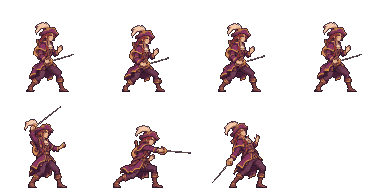
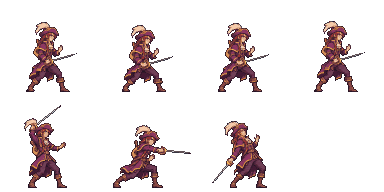
Accept the PC's rapier touch-up for Rico; Isabel's hat is the officer's cap everywhere
Claude-Session: https://claude.ai/code/session_01GaNnj798T1h6Syc1iU5s6y

diff --git a/tools/art/handoff.py b/tools/art/handoff.py
@@ -227,7 +227,7 @@ CHARS = {
         concepts={'concept.png': 'captain_tactician/concept_07.png'},
         weapon_desc=("a slim black officer's cane / baton with a gold knob (no orb, no crystal), in the near hand where the guide holds "
                      'the staff, at the same angle, but only about HALF the guide staff\'s length (~1.2 heads, ~130 px)'),
-        keep=['black tricorne hat with gold trim', 'long straight dark-indigo hair', 'charcoal long military coat',
+        keep=["black peaked officer's cap with a gold band and a gold fleur-de-lis badge (as the portrait; NOT a tricorne - owner decision 2026-11-26)", 'long straight dark-indigo hair', 'charcoal long military coat',
               'gold epaulettes and gold buttons', 'leather belt', 'dark trousers, black boots', 'calm, sharp expression'],
         colours=[('skin', '#f5d6b8'), ('hair', 'dark indigo #3a3f6b'), ('coat', 'charcoal #3a3a4a'),
                  ('trim, epaulettes, buttons', 'gold #f2c94c (muted)')],
@@ -239,7 +239,7 @@ CHARS = {
                   windup='cane raised, free hand lifted (about to give an order)',
                   strike='lunge; free arm extended straight forward, pointing with the index finger at the enemy; cane held up behind',
                   hit='torso thrown back, weight on the rear leg, wincing, hat still on'),
-        ko=dict(keep='금테 검은 삼각모, 곧은 짙은 남보라 긴 머리, 숯색 긴 군복 코트, 금 견장·금단추, 검은 장화, 침착한 표정.',
+        ko=dict(keep='금테·금 백합 휘장의 검은 장교모(초상화대로, 삼각모 아님 — 주인 결정 11-26), 곧은 짙은 남보라 긴 머리, 숯색 긴 군복 코트, 금 견장·금단추, 검은 장화, 침착한 표정.',
                 fix='초안은 약 6등신 → 4등신. 지팡이 → 가이드 지팡이 절반 길이의 장교 지휘봉(금 손잡이), 같은 손·같은 각도. 타격 = 앞으로 뻗은 팔로 손가락 지휘.'),
     ),
     'captain_lancer': dict(

diff --git a/art/requests/phase3/captain_tactician/README.md b/art/requests/phase3/captain_tactician/README.md
@@ -1,7 +1,7 @@
 # 이사벨 — 퇴역 참모 (전술가) — GPT handoff (`captain_tactician`)
 
 > `python3 tools/art/handoff.py`로 자동 생성된다. 고칠 때는 `tools/art/handoff.py`의 `CHARS`를 고치고 다시 실행.
-> 공통 규칙: `art/requests/gpt_handoff_notes.md`. 전체 순서·붙여 넣을 메시지: `art/requests/phase3_gpt.md`.
+> 공통 규칙: `art/requests/gpt_handoff_notes.md`. 일하는 법: `art/requests/GPT_STANDING.md` + `dot_queue.md`「지금 차례」.
 > 모든 자료는 브랜치 `claude/dot-fantasy-management-game-saupju`에서 읽고, 결과 PNG 는 `art-inbox` 브랜치에만 올린다.
 
 ## Prompt for GPT (English)
@@ -9,7 +9,7 @@
 ```
 TASK: draw the battle-sprite strip of Isabel (이사벨, tactician), a mercenary captain. Save it as art/inbox/sheet_captain_tactician.png on the art-inbox branch (a new file there; do not rename). In a chat without repository access, return the PNG in the chat instead.
 
-CHARACTER: a slim black officer's cane / baton with a gold knob (no orb, no crystal), in the near hand where the guide holds the staff, at the same angle, but only about HALF the guide staff's length (~1.2 heads, ~130 px); black tricorne hat with gold trim; long straight dark-indigo hair; charcoal long military coat; gold epaulettes and gold buttons; leather belt; dark trousers, black boots; calm, sharp expression.
+CHARACTER: a slim black officer's cane / baton with a gold knob (no orb, no crystal), in the near hand where the guide holds the staff, at the same angle, but only about HALF the guide staff's length (~1.2 heads, ~130 px); black peaked officer's cap with a gold band and a gold fleur-de-lis badge (as the portrait; NOT a tricorne - owner decision 2026-11-26); long straight dark-indigo hair; charcoal long military coat; gold epaulettes and gold buttons; leather belt; dark trousers, black boots; calm, sharp expression.
 
 COLOURS (keep close, muted): skin #f5d6b8; hair dark indigo #3a3f6b; coat charcoal #3a3a4a; trim, epaulettes, buttons gold #f2c94c (muted).
 
@@ -38,7 +38,7 @@ STYLE (same for every character):
   - 4 heads tall (top of the hair to the chin = 1 head), exactly the proportions and limb lengths of the guide; NOT chibi, NOT realistic
   - front three-quarter view, facing RIGHT; light from the upper left
   - muted, desaturated, hue-shifted palette (shadows toward purple/blue, highlights toward warm yellow), flat cel shading with 2-3 tones
-  - dark, desaturated, NON-black outline used selectively (no thick uniform black lineart), soft rim light on one side
+  - dark, desaturated, NON-black outline around the whole silhouette (no thick uniform black lineart); crisp pixel art: about 40 colours, hard pixel edges, no anti-aliased blending into the background
   - readable at 1x game size (the idle figure becomes ~64 px tall on a dark battlefield): big clear shapes, strong silhouette, few tiny details
 
 DELIVERABLE:
@@ -47,7 +47,9 @@ DELIVERABLE:
   - the lowest pixel of every figure (its soles) on the line y = 870 (85% of the height); head = 110 px for every character. Standing height would be 440 px (4 heads), but the guide idle pose is crouched, so the measured idle top-of-head to sole is about 401 px. Headgear (hats, helmets, plumes) and weapons are extra and not counted
   - at least 32 px of empty magenta between any two figures and between a figure and the image border (a weapon may reach over a neighbour's column as in the guide, but never closer than that)
   - background: perfectly flat solid magenta #FF00FF everywhere (preferred; a transparent PNG is also accepted) - no gradient, floor, cast shadow or scenery
-  - NO figure pixel may be magenta-like: every colour of the figure must stay clearly away from the background key #FF00FF, RGB distance sqrt((255-R)^2 + G^2 + (255-B)^2) >= 150 (no hot pink, magenta or bright violet; purples stay dark blue-purple such as #5a4a7a). If you reduce the palette, reduce the FIGURE colours only and never merge a figure colour into the background colour
+  - NO figure pixel may be magenta-like: every colour of the figure must stay clearly away from the background key #FF00FF, RGB distance sqrt((255-R)^2 + G^2 + (255-B)^2) >= 170, hard minimum 150 (no hot pink, magenta or bright violet; purples stay dark blue-purple such as #5a4a7a). If you reduce the palette, reduce the FIGURE colours only and never merge a figure colour into the background colour
+  - in every pose keep the weapon / key prop outside the body silhouette, over the background, with a 1 px dark outline
+  - the body keeps the guide size in every pose - when a wide pose does not fit, change the weapon angle or the stance, never shrink the figure
   - NO text, labels, numbers, frames, grid lines, watermark; NO effects outside the body (no slash trails, sparks, dust, glow, motion lines, projectiles)
 
 SELF-CHECK before saving (redraw if any fails):
@@ -57,7 +59,8 @@ SELF-CHECK before saving (redraw if any fails):
   [ ] same face, hair, outfit, colours and weapon in all four poses; exactly the weapons in CHARACTER (nothing extra)
   [ ] every FIX applied
   [ ] no text, floor, shadow, effects or projectiles; >= 32 px of magenta between figures and from the border
-  [ ] no figure pixel is #FF00FF or magenta-like (every figure colour at RGB distance >= 150 from #FF00FF)
+  [ ] no figure pixel is #FF00FF or magenta-like (every figure colour at RGB distance >= 170 from #FF00FF (hard minimum 150))
+  [ ] in every pose keep the weapon / key prop outside the body silhouette, over the background, with a 1 px dark outline
   [ ] reads clearly when shrunk to 64 px tall on a dark background
 ```
 
@@ -67,7 +70,7 @@ SELF-CHECK before saving (redraw if any fails):
 - 결과 파일: `art/inbox/sheet_captain_tactician.png` (id `sheet/captain/tactician`)
 - 무기: posekit `staff` 마네킹 → a slim black officer's cane / baton with a gold knob (no orb, no crystal), in the near hand where the guide holds the staff, at the same angle, but only about HALF the guide staff's length (~1.2 heads, ~130 px)
 - 자세(가이드 프레임): ① 대기 `cast_0` ② 공격 준비 `cast_1` ③ 공격 타격 `key_strike` ④ 피격 `key_hit` (`key_*` = handoff.py 의 KEY_POSES: 준비는 체중 뒤로, 타격은 내딛는 런지, 피격은 상체가 뒤로 젖혀짐)
-- 초안에서 가져올 것: 금테 검은 삼각모, 곧은 짙은 남보라 긴 머리, 숯색 긴 군복 코트, 금 견장·금단추, 검은 장화, 침착한 표정.
+- 초안에서 가져올 것: 금테·금 백합 휘장의 검은 장교모(초상화대로, 삼각모 아님 — 주인 결정 11-26), 곧은 짙은 남보라 긴 머리, 숯색 긴 군복 코트, 금 견장·금단추, 검은 장화, 침착한 표정.
 - 고칠 것: 초안은 약 6등신 → 4등신. 지팡이 → 가이드 지팡이 절반 길이의 장교 지휘봉(금 손잡이), 같은 손·같은 각도. 타격 = 앞으로 뻗은 팔로 손가락 지휘.
 - 초안에서 가져오지 말 것: 비율(등신), 칠하는 방식, 외곽선 굵기, 채도, 조명, 디테일 양 — 모두 4등신·앵커 화풍으로 통일.
 - 가이드 띠: 머리 하나 = 110 px (모든 캐릭터 같음). 선 키라면 440 px 이지만 대기 자세가 웅크려서 정수리~발바닥 약 401 px(높이의 39%). 모자·투구·깃털·무기는 따로. 발바닥(맨 아래 픽셀) y=870.

diff --git a/art/inbox/NOTES.md b/art/inbox/NOTES.md
@@ -470,3 +470,12 @@ REFERENCES LOADED: portrait_800.jpg OK; guide_strip.png OK; guide_1_idle.png, gu
 DEVIATIONS: (a) 지팡이 대신 짧은 흰 자루와 금빛 태양 원판. 1번 홀을 화면 왼쪽에 세우고 4번은 앞발을 들고 홀을 뒤로 낮춤. 대기 측정 453px(머리 장식 포함); 몸 축소 없이 폭 조절. (b) 그림 바깥의 광휘는 생략하고 원판 안에만 밝은 크림색 중심을 칠함. (c) none.
 RISKS AT GAME SIZE: 96px 변환에서 치유 동작의 빈손과 홀 머리는 구분되나, 눈밭에선 연한 옷과 장갑의 베이지 외곽 및 4번 피격 발 위치 보정 확인 부탁. 대기 자세의 꽃과 원판이 가까워 밝은 바닥에서 분리되는지도 확인 부탁.
 PROPOSALS: none.
+
+## 손질 — 리코 레이피어 날 (Aseprite)
+
+- 바꾼 것: `sheet_captain_bard.png`(바탕 art-inbox `fb47d45`) 네 자세 모두 레이피어 날만 다시 칠했다. 밝은 강철색 3단(밝은 면 #e6e9ee / 가운데 #c8ccd2 / 그늘 #8e939c, 위쪽이 밝은 면), 강철 10px + 양옆 1px 어두운 외곽선(#150926) = 원본 약 12px(게임 2px). 끝 1/4 은 뾰족하게 좁힌다. 날의 길이·각도·자세·몸·코등이·장갑·옷은 그대로(코등이·손·옷 위로는 칠하지 않음).
+- 게임 크기(0.1654) 전후 비교에서 날이 밝고 굵어진 것이 네 자세 모두 보인다.
+- 레이어: `aseprite/sheet_captain_bard.aseprite` Background(받은 그림) / touchup(바꾼 픽셀만). 내보내기 = PNG 픽셀 단위 일치.
+- 참고: 없음
+- 검사: `check_delivery.py` RESULT: PASS (42색, 키와 최소 거리 182.6, 네 자세 최하단 y=870) · against the base: silhouette changed 1513 px, colour changed 5171 px (per pose silhouette/colour: 327/1257, 443/1458, 344/1307, 399/1149)
+- 지침 판: 2026-11-26c

diff --git a/docs/reviews/2026-11-26_animation_and_collaboration.md b/docs/reviews/2026-11-26_animation_and_collaboration.md
@@ -93,7 +93,7 @@
 3. **걷기 그림의 범위** (권고 A): 엔진 걷기로 모든 캐릭터가 이미 걷는다. 그림으로 그려 줄 가치가 큰 것은 엔진이 흉내 못 내는 **달리기·돌격**(상체 기울임, 두 발이 뜨는 프레임)이다.
    A) 고유 캐릭터(대장·특별 용병)는 지금처럼 4자세 + 엔진 걷기, 그려 주는 프레임은 일반 병과 5종의 달리기 4프레임부터 / B) 모든 캐릭터에 걷기 세트(사람형 29명 x 4~8프레임, 가장 비싼 길).
 4. 앞으로 시안 번호를 고를 때 **"꼭 남길 것 2~3가지"**를 함께 말해 주면 요청서의 MUST SURVIVE 에 그대로 적는다.
-5. (열린 질문, 11-24) 이사벨의 모자: 요청서의 삼각모가 아니라 초상화의 장교모로 그려져 등록돼 있다 — 그대로 둘지.
+5. ~~(열린 질문, 11-24) 이사벨의 모자~~ — **답 받음 (11-26): 장교모로 통일.** 시트·초상화는 이미 장교모, 요청서(`handoff.py`, 꾸러미 README)의 삼각모 문구를 고쳤다.
 6. **뼈대 만드는 방식**: 11-25 에는 "PC 세션이 스켈레톤을 따로 만들게" 하셨는데, 검토 결과 초안은 클라우드가 수치표로 만들고(다시 만들 수 있고 잴 수 있다) PC 는 Aseprite 로 다듬는 쪽이 낫다고 보고 그렇게 바꿨다 — 괜찮은지.
 7. **남은 대장의 무기**: 초상화·스킬 이름·이야기가 다를 때의 기본을 "스킬·이야기 이름"으로 둘지(지금까지 세 번 모두 그렇게 정하셨다).
 8. 거대 거미에서 "꼭 남길 것"으로 내가 적은 여섯 가지가 맞는지(반려하신 이유를 내가 읽은 것이다) — 대기 한 컷 비교 그림 참고.

diff --git a/art/requests/feedback.md b/art/requests/feedback.md
@@ -427,3 +427,7 @@
 - GPT 의 위험 메모 확인: 눈밭에서 연한 옷은 어두운 외곽선이 윤곽을 잡아 묻히지 않는다(윤곽 픽셀 기준 0%). 대기 자세의 꽃과 원판도 따로 읽힌다. 그대로 둔다.
 - 남은 열린 것: 오르가·카토·니클라·우르그 + 거미 다시 그리기 + 교차 검수 3.
 
+## 이사벨의 모자 — 장교모로 통일 (주인 결정 11-26)
+- 「주인에게 물을 것」 3번의 답. 등록된 시트와 초상화는 이미 금테·금 백합 휘장의 검은 장교모다 — 손질 없음.
+- 요청서 쪽만 고쳤다: `tools/art/handoff.py` 의 이사벨 항목과 `art/requests/phase3/captain_tactician/README.md` 의 "삼각모(tricorne)" → "장교모(peaked officer's cap)". 앞으로 다시 그릴 일이 생겨도 장교모로 나간다.
+
